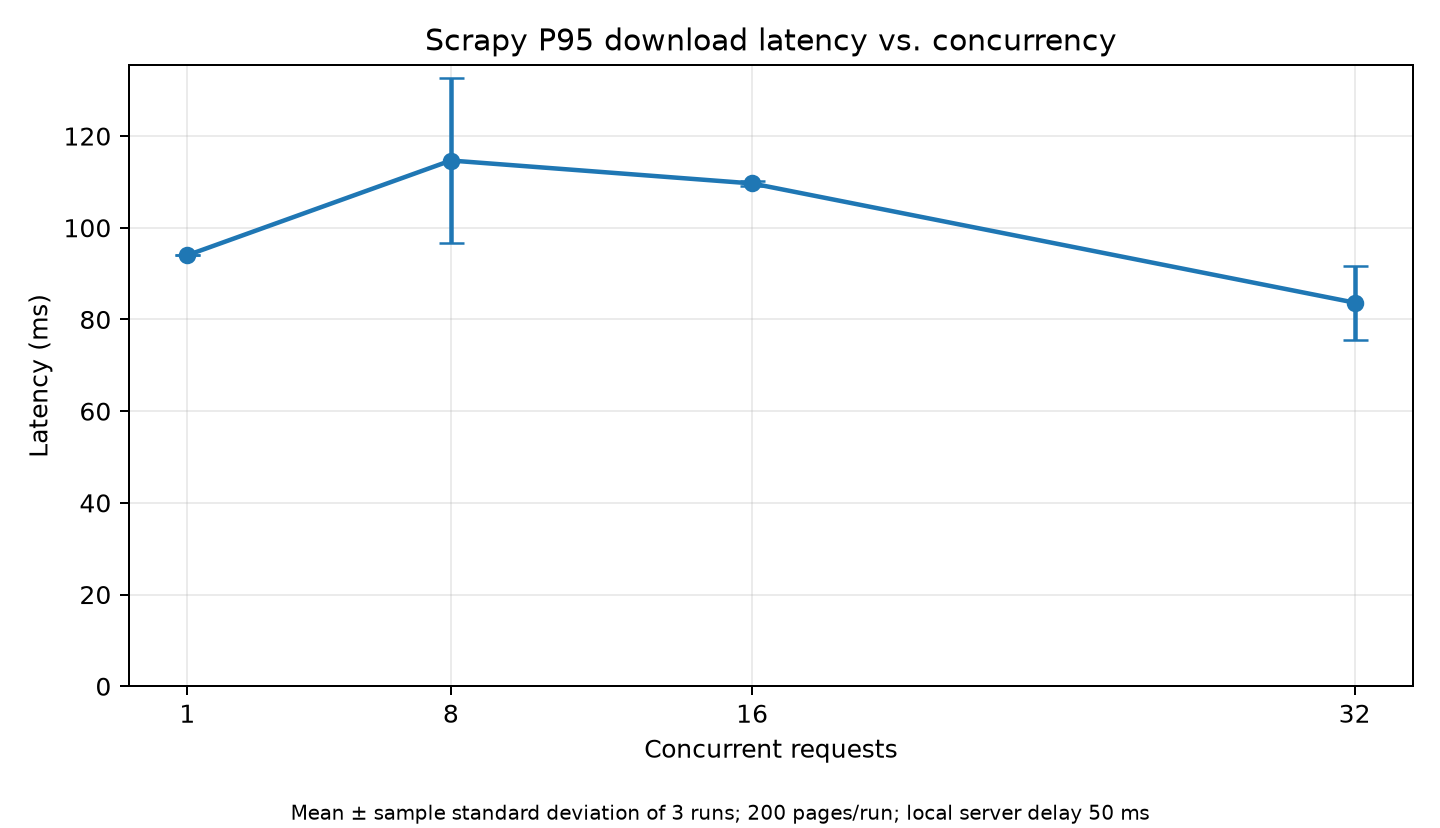
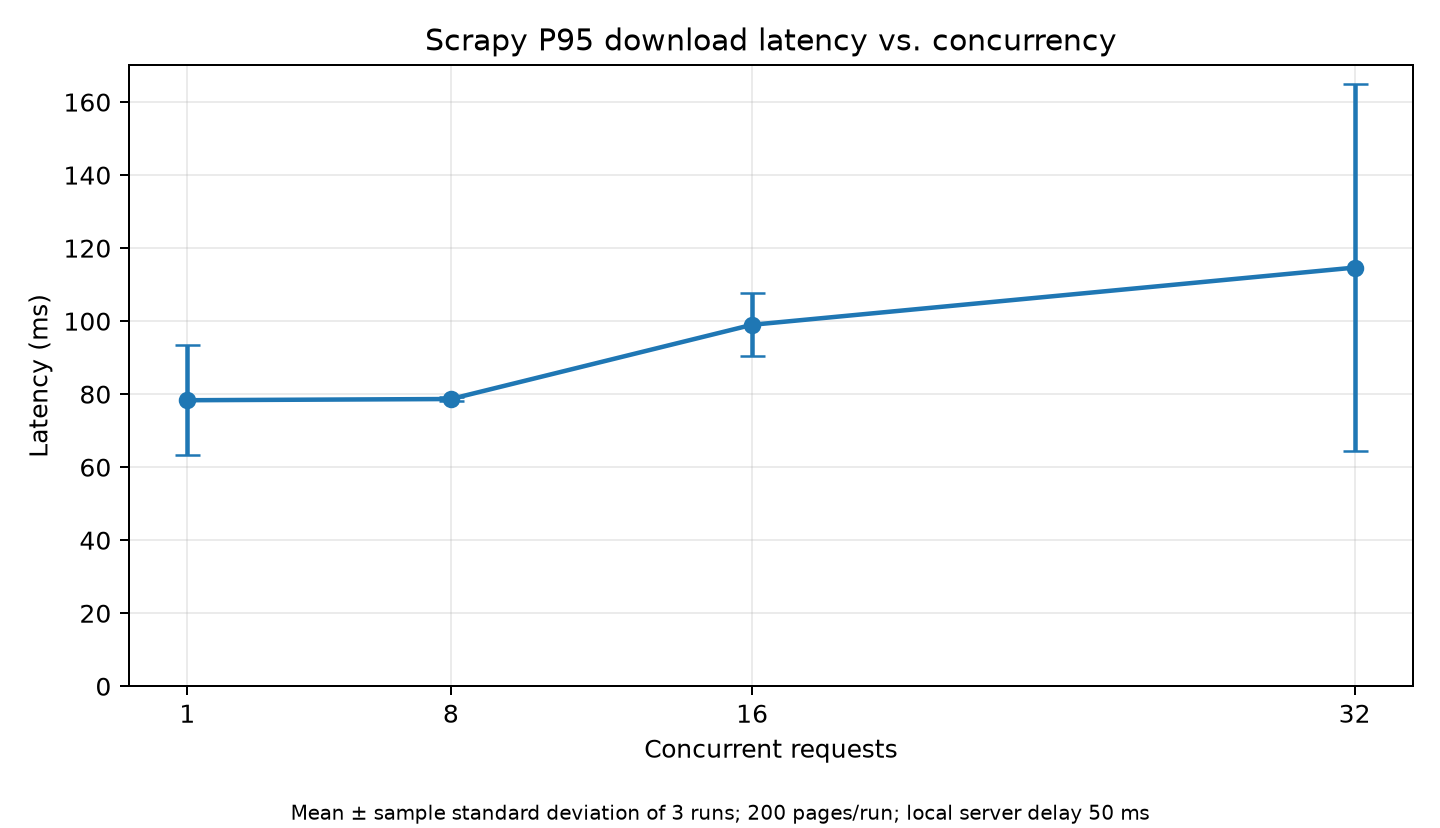
Fix performance benchmark backlog and regenerate results

diff --git a/scripts/4_run_performance.py b/scripts/4_run_performance.py
@@ -48,6 +48,10 @@ class LocalPageHandler(BaseHTTPRequestHandler):
     def log_message(self, format, *args):
         return  # Silence requests; metrics are written to CSV instead.
 
+class BenchmarkHTTPServer(ThreadingHTTPServer):
+    """Allow a larger backlog of pending HTTP connections."""
+    request_queue_size = 128
+    daemon_threads = True
 
 def peak_process_tree_rss(pid):
     """Snapshot RSS for Scrapy process and any subprocess children."""
@@ -142,7 +146,7 @@ def main():
     raw.mkdir(parents=True, exist_ok=True)
     processed.mkdir(parents=True, exist_ok=True)
     LocalPageHandler.delay_s = args.delay_ms / 1000.0
-    server = ThreadingHTTPServer(("127.0.0.1", 0), LocalPageHandler)
+    server = BenchmarkHTTPServer(("127.0.0.1", 0), LocalPageHandler)
     server.daemon_threads = True
     thread = threading.Thread(target=server.serve_forever, daemon=True)
     thread.start()
@@ -188,6 +192,7 @@ def main():
         "concurrency_levels": args.concurrency,
         "server_delay_ms": args.delay_ms,
         "server_host": "127.0.0.1",
+        "server_request_queue_size": server.request_queue_size,
         "benchmark_type": "controlled localhost synthetic workload",
         "scrapy_version": __import__("scrapy").__version__,
         "scrapy_source_commit": subprocess.run(["git", "-C", str(root / "scrapy-src"), "rev-parse", "HEAD"], capture_output=True, text=True).stdout.strip(),

diff --git a/scripts/4_plot_performance.py b/scripts/4_plot_performance.py
@@ -87,9 +87,22 @@ def main() -> None:
         if metric != "peak_rss_mib":
             ax.set_ylim(bottom=0)
         else:
-            ax.set_ylim(bottom=80)  # Truncated axis for readability; disclose explicitly.
-            ax.text(0.01, 0.02, "Y-axis starts at 80 MiB", transform=ax.transAxes,
-                    fontsize=8, va="bottom", alpha=0.8)
+            lower = min(m - s for m, s in zip(y, sd))
+            upper = max(m + s for m, s in zip(y, sd))
+            padding = max(0.5, (upper - lower) * 0.15)
+
+            ax.set_ylim(max(0, lower - padding), upper + padding)
+
+            axis_start = ax.get_ylim()[0]
+            ax.text(
+                0.01, 0.02,
+                f"Y-axis truncated (starts at {axis_start:.1f} MiB)",
+                transform=ax.transAxes,
+                fontsize=8,
+                va="bottom",
+                alpha=0.8
+            )
+            
         fig.text(0.5, 0.01, "Mean ± sample standard deviation of 3 runs; 200 pages/run; local server delay 50 ms",
                  ha="center", fontsize=8)
         fig.tight_layout(rect=(0, 0.045, 1, 1))

diff --git a/README_PERFORMANCE.md b/README_PERFORMANCE.md
@@ -27,6 +27,7 @@ Three performance metrics are measured:
 - Repetitions per configuration: 3
 - Concurrency levels: 1, 8, 16, 32
 - Total benchmark runs: 12
+- Local server connection backlog: 128
 
 ## Setup
 
